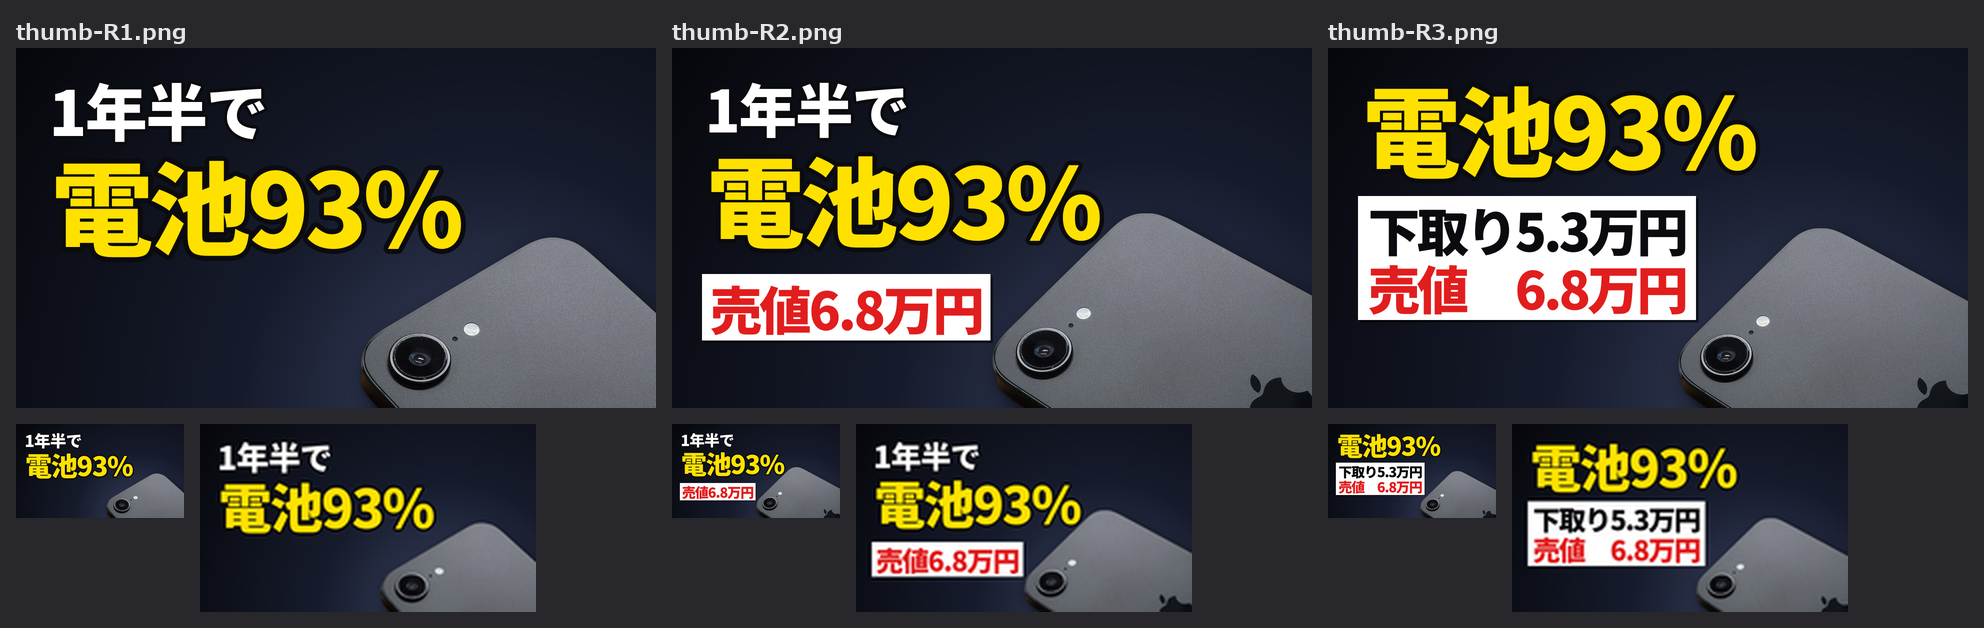
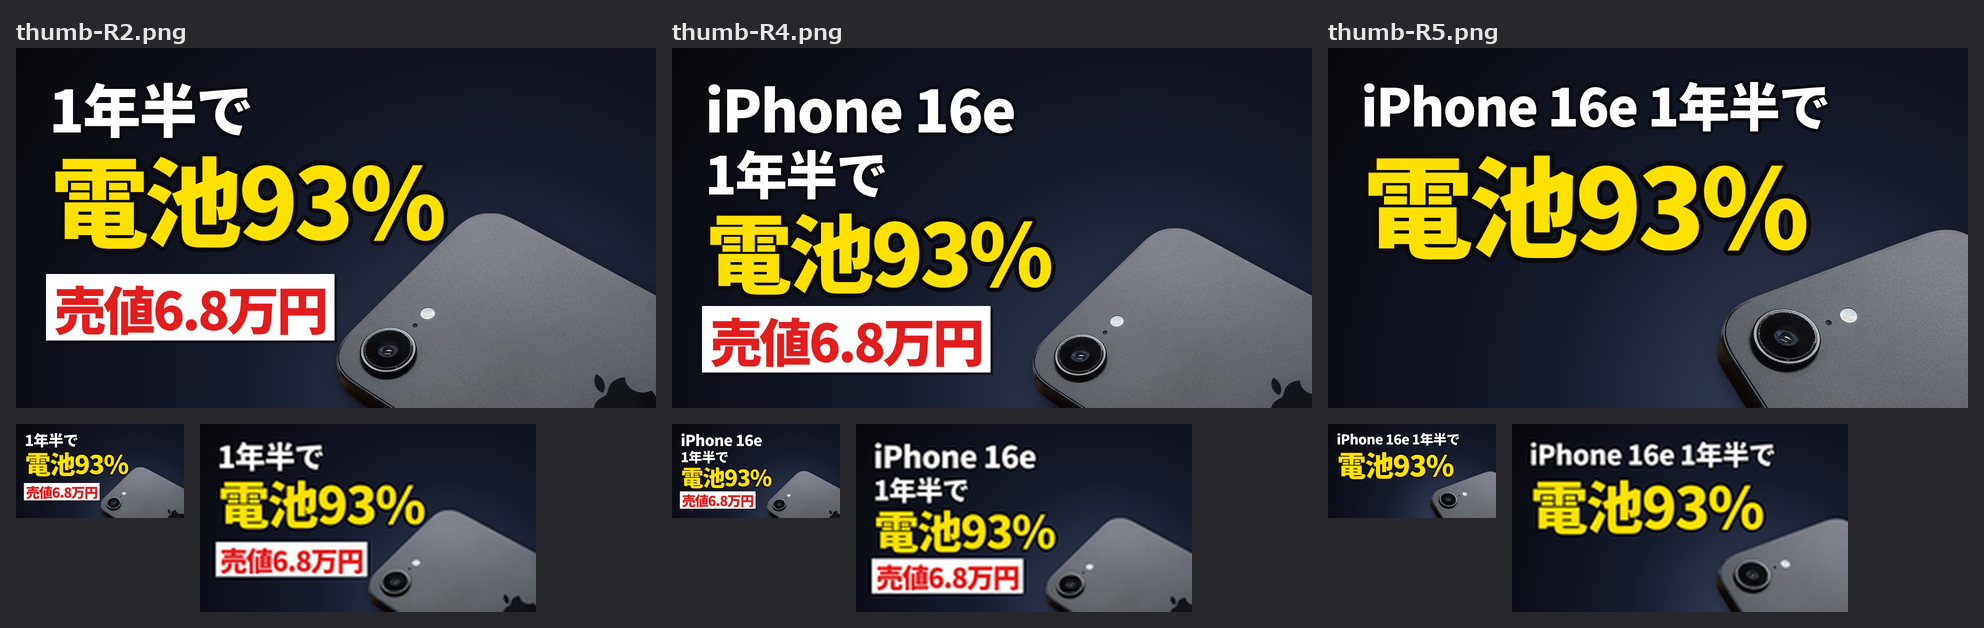
横動画 16e: サムネ案 R4・R5（「iPhone 16e」を入れる）・一覧を R2/R4/R5 に

diff --git a/longform/thumb-bf-finding.tsx b/longform/thumb-bf-finding.tsx
@@ -123,9 +123,28 @@ const e3 = (
   </Frame>
 );
 
+// E4（R4・11/19 ユーザー「iPhone 16e を入れて」）: R2 の上に iPhone 16e（白 116）／ 1年半で（白 104）／ 電池93%（黄 172・主役）／ 札 売値6.8万円（赤 104）
+const e4 = (
+  <Frame>
+    <Layer name="16e-r4" />
+    <T x={EDGE + 6} y={60}><Outlined text="iPhone 16e" size={116} color={WHITE} w={6} spacing={-3} /></T>
+    <T x={EDGE + 6} y={196}><Outlined text="1年半で" size={104} color={WHITE} w={6} spacing={-3} /></T>
+    <T x={EDGE + 8} y={316}><Outlined text="電池93%" size={172} color={YELLOW} w={9} spacing={-7} /></T>
+    <Tag x={EDGE} y={516} text="売値6.8万円" size={104} color={RED} pad={16} spacing={-5} />
+  </Frame>
+);
+// E5（R5）: R1 の上の行を「iPhone 16e 1年半で」（白 104）に ／ 電池93%（黄 220・主役）。札なし・写真を大きく
+const e5 = (
+  <Frame>
+    <Layer name="16e-r5" />
+    <T x={EDGE + 6} y={60}><Outlined text="iPhone 16e 1年半で" size={104} color={WHITE} w={6} spacing={-3} /></T>
+    <T x={EDGE + 10} y={196}><Outlined text="電池93%" size={220} color={YELLOW} w={10} spacing={-8} /></T>
+  </Frame>
+);
+
 (async () => {
   const fonts = await notoSansJp(readFileSync(__filename, "utf8"));
-  const plans: [string, ReactNode][] = SET === "16e" ? [["R1", e1], ["R2", e2], ["R3", e3]] : [["R1", r1], ["R2", r2], ["R3", r3]];
+  const plans: [string, ReactNode][] = SET === "16e" ? [["R1", e1], ["R2", e2], ["R3", e3], ["R4", e4], ["R5", e5]] : [["R1", r1], ["R2", r2], ["R3", r3]];
   const checkDir = CHECK ? ARGV[1] : "";
   if (CHECK) mkdirSync(checkDir, { recursive: true });
   for (const [name, node] of plans) {

diff --git a/longform/thumb-bf-check.py b/longform/thumb-bf-check.py
@@ -11,14 +11,16 @@ from PIL import Image, ImageDraw, ImageFont
 HERE = Path(__file__).resolve().parent
 SETS = {
     "bf": ("2026-11-26-blackfriday", "bf-layers", {"R1": "bf-bottom", "R2": "bf-bottom2", "R3": "bf-small"}),
-    "16e": ("2026-12-03-iphone16e-review", "16e-layers", {"R1": "16e-big", "R2": "16e-mid", "R3": "16e-small"}),
+    "16e": ("2026-12-03-iphone16e-review", "16e-layers", {"R1": "16e-big", "R2": "16e-mid", "R3": "16e-small", "R4": "16e-r4", "R5": "16e-r5"}),
 }
 SET = next((a.split("=", 1)[1] for a in sys.argv[1:] if a.startswith("--set=")), "bf")
 ARGS = [a for a in sys.argv[1:] if not a.startswith("--set=")]
 DIR = HERE / SETS[SET][0]
 LAYERS = SETS[SET][1]
-NAMES = ["R1", "R2", "R3"]
+NAMES = list(SETS[SET][2])
 LAYER = SETS[SET][2]
+# 一覧に並べる案（16e は 11/19 にユーザーが「iPhone 16e」を入れる案を求めたので R2 と比べる）
+CONTACT = {"bf": ["R1", "R2", "R3"], "16e": ["R2", "R4", "R5"]}[SET]
 
 
 def contact():
@@ -27,7 +29,7 @@ def contact():
         font = ImageFont.truetype("C:/Windows/Fonts/meiryob.ttc", 22)
     except OSError:
         font = ImageFont.load_default()
-    names = [n for n in NAMES if (DIR / f"thumb-{n}.png").exists()]
+    names = [n for n in CONTACT if (DIR / f"thumb-{n}.png").exists()]
     sheet = Image.new("RGB", (GAP + (CW + GAP) * len(names), GAP + LH + CH + GAP + SH * 2 + GAP), (40, 40, 44))
     d = ImageDraw.Draw(sheet)
     for c, n in enumerate(names):

diff --git a/longform/thumb-bf-prep.py b/longform/thumb-bf-prep.py
@@ -28,7 +28,8 @@ SETS = {
                place={"bf-bottom": (1000, 0, 300, 440), "bf-bottom2": (1000, 0, 360, 400), "bf-small": (700, 0, 680, 470)}),
     "16e": dict(dir=HERE / "assets" / "blog-16e", src="2025_12_image.jpg", cut="iphone16e-cut.png",
                 cutline="iphone16e-cutline.png", edges=("bottom", "right"), layers="16e-layers", shrink=3, fill="blur",
-                place={"16e-big": (900, -14, 600, 300), "16e-mid": (820, 0, 640, 330), "16e-small": (760, 0, 700, 360)}),
+                place={"16e-big": (900, -14, 600, 300), "16e-mid": (820, 0, 640, 330), "16e-small": (760, 0, 700, 360),
+                       "16e-r4": (760, 0, 720, 360), "16e-r5": (1000, -24, 620, 220)}),
 }
 SET = next((a.split("=", 1)[1] for a in sys.argv[1:] if a.startswith("--set=")), "bf")
 ARGS = [a for a in sys.argv[1:] if not a.startswith("--set=")]
